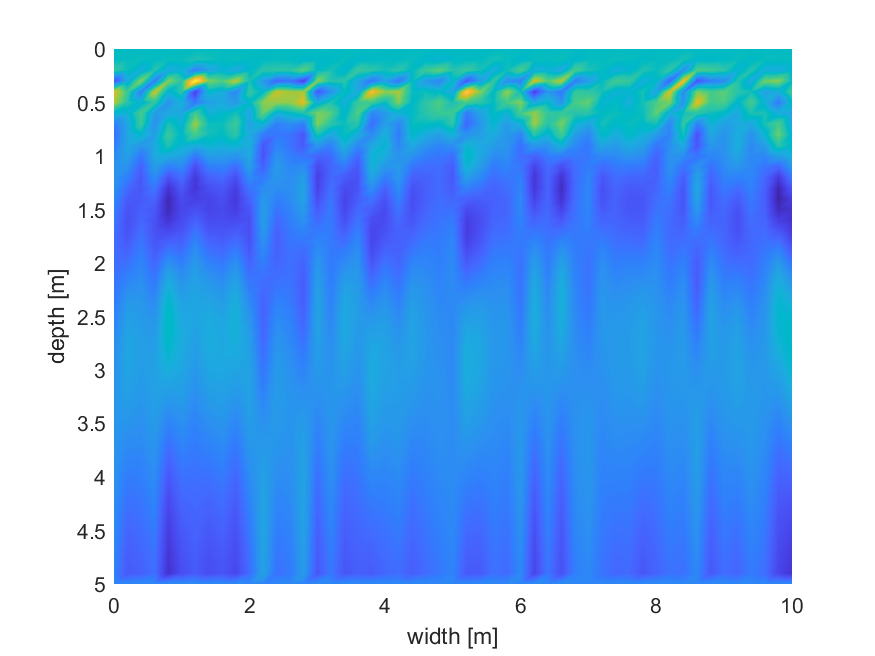
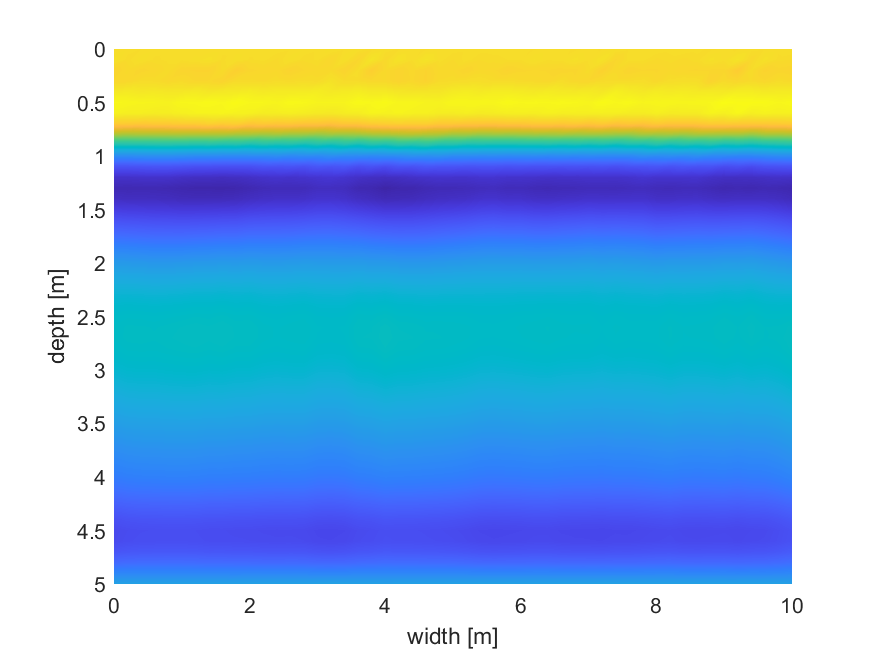
update 2D

diff --git a/maltab_models/2D-notfinished/Inversion2D.m b/maltab_models/2D-notfinished/Inversion2D.m
@@ -6,11 +6,14 @@ tic
 % load the dataset
 load data2D
 
-xlog = 0:0.2:10; %
+xlog = 0:0.2:10; % horz
+ztop = 0:0.1:5; % vert
+
+nx = length(xlog);
+nz = length(ztop);
 
 % model parameters
 ndata = size(data,1);
-ztop = 0:0.1:5;
 nlay = length(ztop);
 sigma_a = data(:, 1);
 nsteps = length(unique(data(:, 4)));
@@ -38,11 +41,19 @@ end
 
 G = blkdiag(G_stack{:});
 
+% set parameters for the inversion
+alphax = 1.0; % weight on model smoothness in x-direction
+alphaz = 1.0; % weight on model smoothness in z-direction
+
+% calculate data and model weighting matrices
+[Dx,Dz] = smoothweightEM2D(nx,nz);
+Wm = alphax*(Dx'*Dx) + alphaz*(Dz'*Dz);
+
 % inversion
 
-yolo = G';
+lamb = 1e-4;
 
-A = G'*G;
+A = G'*G + Wm*lamb; 
 b = G'*data(:, 1);
 
 m = cgs(A, b, 1e-10, 1e2);

diff --git a/maltab_models/2D-notfinished/smoothweightEM2D.m b/maltab_models/2D-notfinished/smoothweightEM2D.m
@@ -1,0 +1,23 @@
+function [Dx,Dz] = smoothweightEM2D(nx,nz)
+%
+% This function computes matrices Wx and Wz that approximate the horizontal
+% and vertical second derivatives when applied to a model vector m, where m
+% represents a 2D distribution of some geophysical parameter.  Entries of m
+% are taken row by row from the 2D image.
+%
+% Syntax:  [Dx,Dz] = smoothweight(nx,nz);
+%
+% nx = number of model cells in x direction
+% nz = number of model cells in z direction
+%
+% by James Irving
+% June 2019
+
+ncells = nx*nz;
+weights = repmat([1 -2 1],ncells,1);
+Dx = spdiags(weights,[-1 0 1],ncells,ncells)';
+Dx(1:nx:end,:) = 0;
+Dx(nx:nx:end,:) = 0;
+Dz = spdiags(weights,[-nx 0 nx],ncells,ncells)';
+Dz(1:nx,:) = 0;
+Dz(((nz-1)*nx+1):nx*nz,:) = 0;
